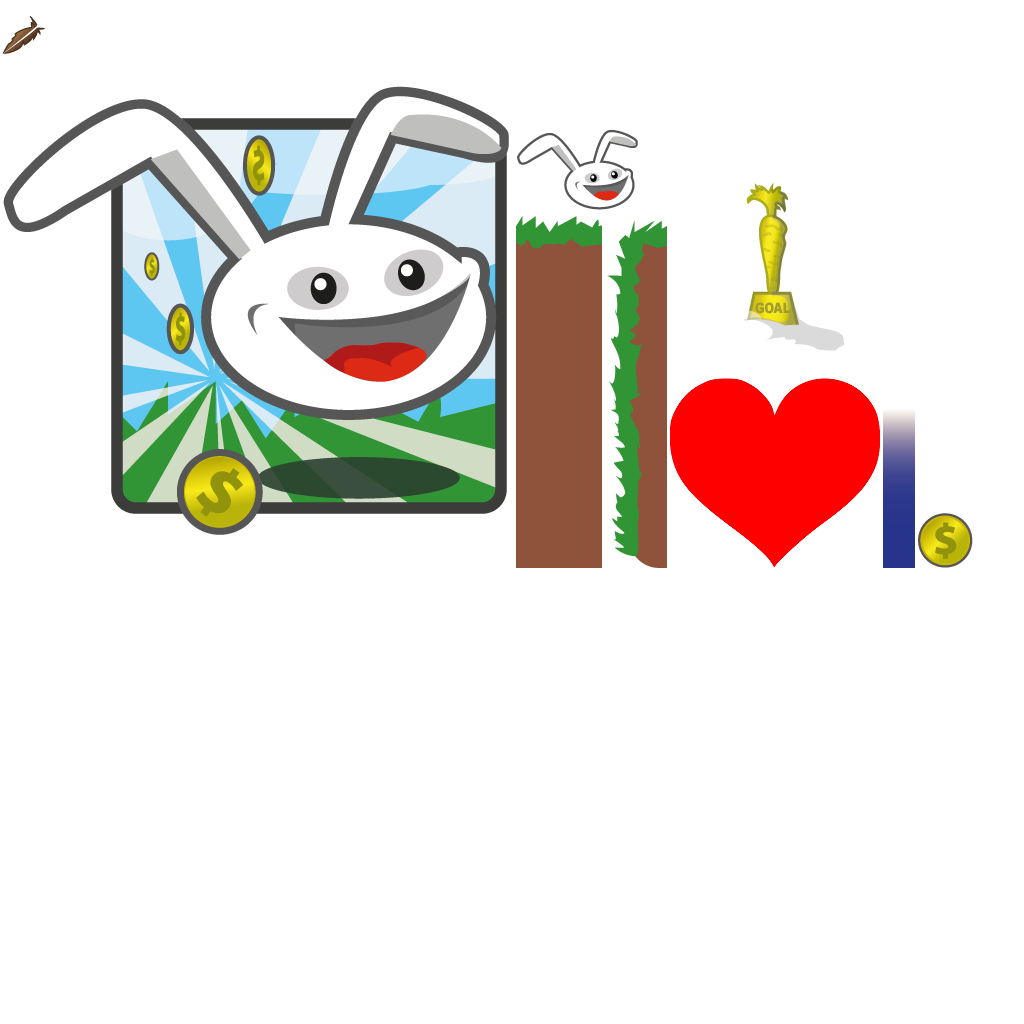
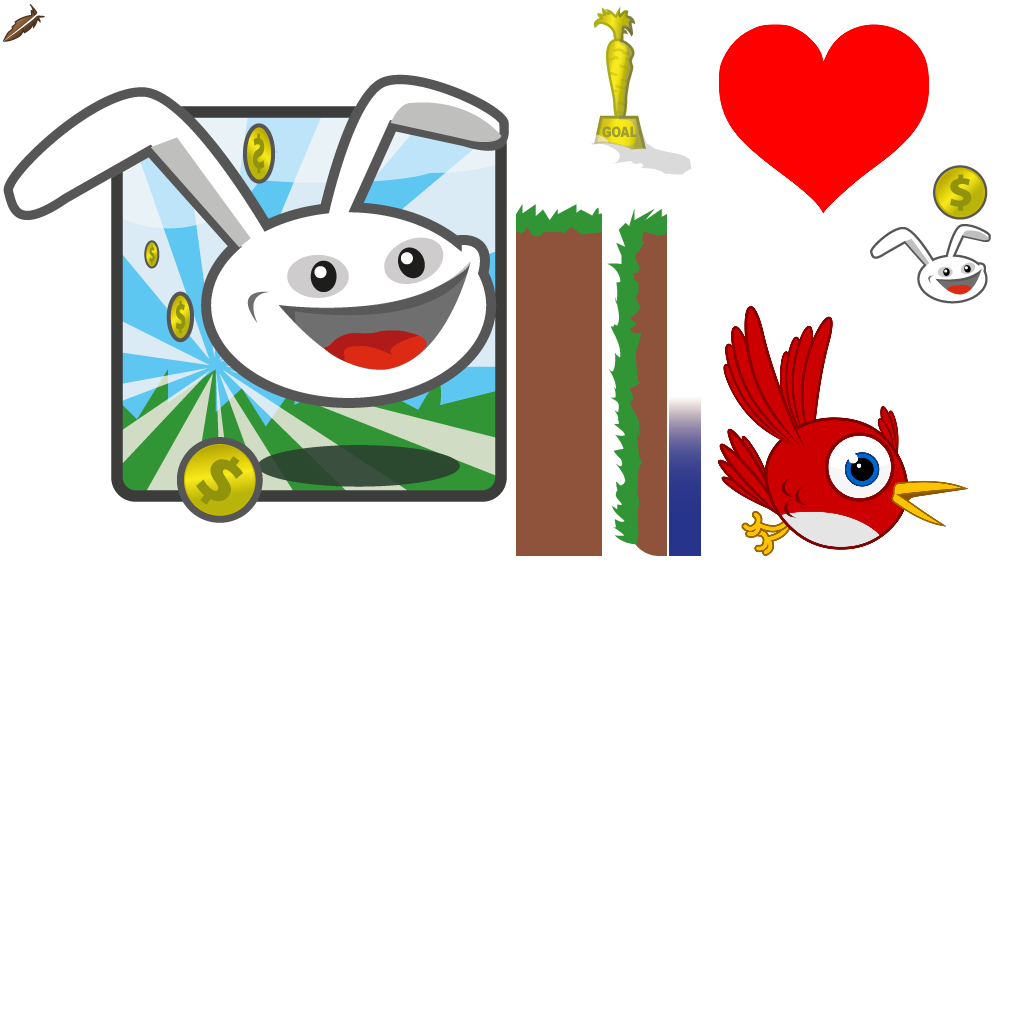
added bird asset

Changed region(s): [[0.0, 0.0, 0.9688, 0.5625], [0.8438, 0.1562, 0.9688, 0.3125], [0.0, 0.0, 0.0625, 0.0625]]

diff --git a/core/src/ie/wit/cgd/bunnyhop/game/Level.java b/core/src/ie/wit/cgd/bunnyhop/game/Level.java
@@ -12,6 +12,7 @@ import ie.wit.cgd.bunnyhop.game.objects.BunnyLife;
 import ie.wit.cgd.bunnyhop.game.objects.Clouds;
 import ie.wit.cgd.bunnyhop.game.objects.Feather;
 import ie.wit.cgd.bunnyhop.game.objects.Goal;
+import ie.wit.cgd.bunnyhop.game.objects.Bird;
 import ie.wit.cgd.bunnyhop.game.objects.GoldCoin;
 import ie.wit.cgd.bunnyhop.game.objects.Mountains;
 import ie.wit.cgd.bunnyhop.game.objects.Rock;
@@ -24,6 +25,7 @@ public class Level {
     
     public BunnyHead bunnyHead;
     public Goal goal;
+    public Array<Bird> birds;
     public Array<GoldCoin> goldCoins;
     public Array<Feather> feathers;
     public Array<BunnyLife> bunnyLives;
@@ -35,7 +37,8 @@ public class Level {
         ITEM_FEATHER(255, 0, 255),        // purple
         ITEM_GOLD_COIN(255, 255, 0),      // yellow
     	ITEM_GOAL(255, 0, 0),			  // red
-    	ITEM_BUNNY_LIFE(0, 0, 255);		  // blue
+    	ITEM_BUNNY_LIFE(0, 0, 255),		  // blue
+    	Bird(0, 255, 255);				  //
 
         private int color;
 
@@ -75,6 +78,7 @@ public class Level {
         goal = null;
 
         // objects
+        birds = new Array<Bird>();
         rocks = new Array<Rock>();
         goldCoins = new Array<GoldCoin>();
         feathers = new Array<Feather>();
@@ -131,6 +135,11 @@ public class Level {
                     offsetHeight = -2f;
                     obj.position.set(pixelX,baseHeight * obj.dimension.y + offsetHeight);
                     bunnyLives.add((BunnyLife)obj);
+                }else if (BLOCK_TYPE.Bird.sameColor(currentPixel)) {          // goal
+                    obj = new Bird();
+                    offsetHeight = 0f;
+                    obj.position.set(pixelX,baseHeight * obj.dimension.y + offsetHeight);
+                    birds.add((Bird)obj);
                 } else {                                                                    // unknown object/pixel color
                    // ...
                 }
@@ -195,6 +204,8 @@ public class Level {
         clouds.update(deltaTime);
         goal.update(deltaTime);
         mountains.update(deltaTime);
+        for (Bird bird: birds)
+        	bird.update(deltaTime);
         for (Rock rock : rocks)
             rock.update(deltaTime);
         for (GoldCoin goldCoin : goldCoins)
@@ -217,6 +228,8 @@ public class Level {
 			feather.render(batch);
 		for (BunnyLife bunnyLife : bunnyLives) // Draw Bunny Lives
 			bunnyLife.render(batch);
+		for (Bird bird : birds) // Draw Feathers
+			bird.render(batch);
 		bunnyHead.render(batch); // Draw Player Character
 		goal.render(batch); // Draw goal item
 		waterOverlay.render(batch); // Draw Water Overlay

diff --git a/core/src/ie/wit/cgd/bunnyhop/game/WorldRenderer.java b/core/src/ie/wit/cgd/bunnyhop/game/WorldRenderer.java
@@ -108,6 +108,8 @@ public class WorldRenderer implements Disposable {
         renderGuiGameOverMessage(batch);
         
         renderGuiFeatherPowerup(batch);
+        
+        renderGuiGameOverTimer(batch);
         batch.end();
     }
 
@@ -141,6 +143,13 @@ public class WorldRenderer implements Disposable {
         }
     }
     
+    private void renderGuiGameOverTimer(SpriteBatch batch) {
+        float x = 0;
+        float y = 0;
+    	float gameOverTimer = worldController.gameOverTimer;
+    	Assets.instance.fonts.defaultBig.draw(batch, "Timer: " + (int) gameOverTimer, x + 150, y + 23);
+    }
+    
     private void renderGuiFeatherPowerup(SpriteBatch batch) {
         float x = -15;
         float y = 30;
@@ -156,11 +165,7 @@ public class WorldRenderer implements Disposable {
             }
             batch.draw(Assets.instance.feather.feather, x, y, 50, 50, 100, 100, 0.35f, -0.35f, 0);
             batch.setColor(1, 1, 1, 1);
-            Assets.instance.fonts.defaultSmall.draw(batch, "" + (int) timeLeftFeatherPowerup, x + 60, y + 57);
+            Assets.instance.fonts.defaultNormal.draw(batch, "test: " + (int) timeLeftFeatherPowerup, x + 60, y + 57);
         }
-    }
-    
-    private void renderGuiGameOverTimer(SpriteBatch batch) {
-    	
     }
 }

diff --git a/core/src/ie/wit/cgd/bunnyhop/game/objects/Bird.java b/core/src/ie/wit/cgd/bunnyhop/game/objects/Bird.java
@@ -1,0 +1,42 @@
+package ie.wit.cgd.bunnyhop.game.objects;
+
+import com.badlogic.gdx.graphics.g2d.SpriteBatch;
+
+import com.badlogic.gdx.graphics.g2d.TextureRegion;
+
+import ie.wit.cgd.bunnyhop.game.Assets;
+import ie.wit.cgd.bunnyhop.game.objects.BunnyHead.VIEW_DIRECTION;
+import ie.wit.cgd.bunnyhop.util.Constants;
+
+public class Bird extends AbstractGameObject {
+	
+	private TextureRegion	regBird;
+    public boolean          collected;
+    
+    public Bird() {
+    	init();
+    }
+
+	private void init() {
+        dimension.set(0.5f, 0.5f);
+        regBird = Assets.instance.bird.bird;
+        // Set bounding box for collision detection
+        bounds.set(0, 0, dimension.x, dimension.y);
+        collected = false;
+	}
+
+    public void render(SpriteBatch batch) {
+        if (collected) return;
+        TextureRegion reg = null;
+        reg = regBird;
+        batch.draw(reg.getTexture(), position.x, position.y, origin.x, origin.y, dimension.x, dimension.y, scale.x,
+                scale.y, rotation, reg.getRegionX(), reg.getRegionY(), reg.getRegionWidth(), reg.getRegionHeight(),
+                false, false);
+    }
+    
+    
+    public int getScore() {
+        return 500;
+    }
+
+}

diff --git a/core/src/ie/wit/cgd/bunnyhop/game/Assets.java b/core/src/ie/wit/cgd/bunnyhop/game/Assets.java
@@ -24,6 +24,7 @@ public class Assets implements Disposable, AssetErrorListener {
     public AssetLevelDecoration levelDecoration;
     public AssetGoal			goal;
     public AssetBunnyLife	    bunnyLife;
+    public AssetBird	        bird;
     
     public AssetFonts           fonts;
 
@@ -68,6 +69,14 @@ public class Assets implements Disposable, AssetErrorListener {
         public AssetRock(TextureAtlas atlas) {
             edge = atlas.findRegion("rock_edge");
             middle = atlas.findRegion("rock_middle");
+        }
+    }
+    
+    public class AssetBird {
+        public final AtlasRegion    bird;
+
+        public AssetBird(TextureAtlas atlas) {
+            bird = atlas.findRegion("Starling-flying");
         }
     }
     
@@ -150,6 +159,7 @@ public class Assets implements Disposable, AssetErrorListener {
         levelDecoration = new AssetLevelDecoration(atlas);
         goal = new AssetGoal(atlas);
         bunnyLife = new AssetBunnyLife(atlas);
+        bird = new AssetBird(atlas);
     }
 
     @Override

diff --git a/core/src/ie/wit/cgd/bunnyhop/util/Constants.java b/core/src/ie/wit/cgd/bunnyhop/util/Constants.java
@@ -22,7 +22,7 @@ public class Constants {
     // Duration of feather power-up in seconds
     public static final float ITEM_FEATHER_POWERUP_DURATION = 9;
     
-    public static final float GAME_OVER_TIMER = 10;
+    public static final float GAME_OVER_TIMER = 120;
     
 
     public static final float GAME_OVER = 120;
